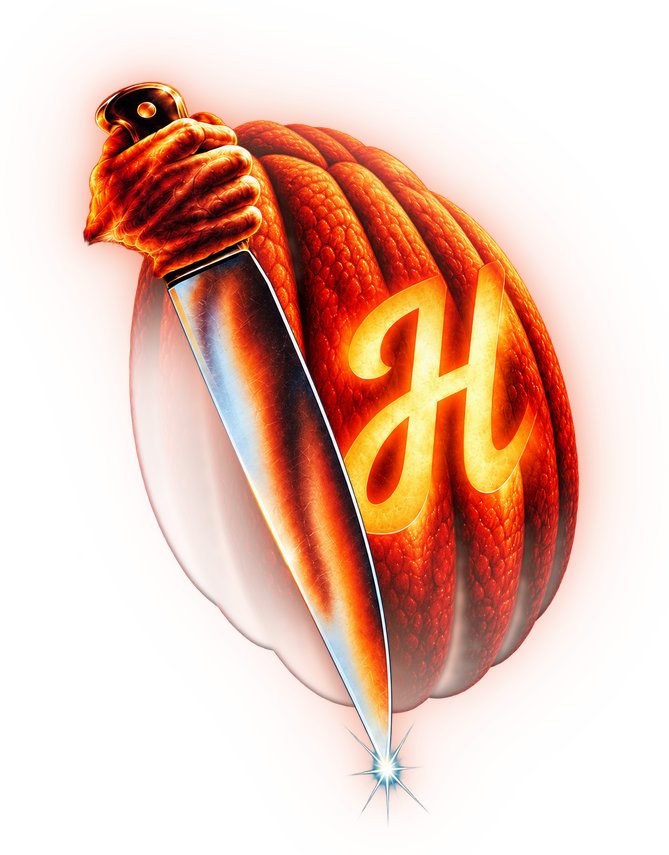
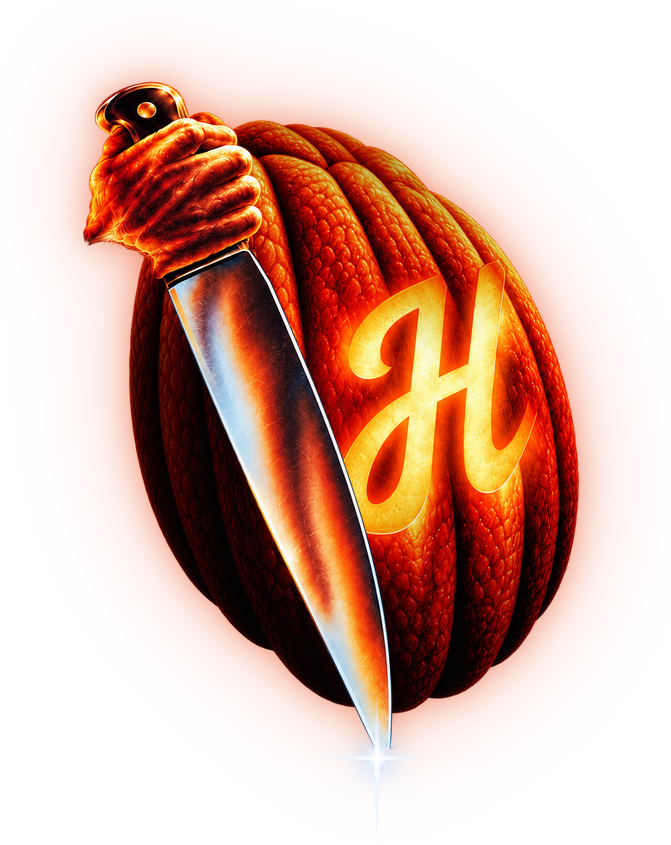
Pumpkin/knife PNGs: solid pumpkin (no see-through shadow), crisp tip star
- glow version: the poster shading is now solid darkening, never transparent,
  so the left side no longer turns into a ghost on coloured backgrounds
- both versions get a newly drawn four-point star at the knife tip instead of
  the pack's baked one (clean version had none)

Claude-Session: https://claude.ai/code/session_01U2sS6CLVvwZt3yr91v4FPT

Changed region(s): [[0.1196, 0.0923, 0.867, 0.9538]]

diff --git a/halloween-at-henderson/motion/prep_export.py b/halloween-at-henderson/motion/prep_export.py
@@ -1,11 +1,10 @@
 """Export the pumpkin + knife artwork as standalone transparent PNGs -> ../exports/.
 
-  pumpkin-knife-clean.png  the full, evenly lit pumpkin + knife and hand; no
-                           glow, no tip star; sits on any background
-  pumpkin-knife-glow.png   the poster look for dark backgrounds: the pumpkin's
-                           left side falls away into shadow (as transparency,
-                           so it matches the poster on black), ember halo and
-                           knife-tip star
+  pumpkin-knife-clean.png  the full, evenly lit pumpkin + knife and hand with a
+                           crisp knife-tip star; no glow; sits on any background
+  pumpkin-knife-glow.png   the poster look: the pumpkin's left side shaded
+                           darker (solid, never see-through), ember halo and
+                           the same star; best on dark backgrounds
 
 Built from the motion layers (run after prep_layers.py), at the layer pack's
 native resolution, cropped tight with a margin.
@@ -48,16 +47,14 @@ def padded(img, p):
     return np.pad(img, ((p, p), (p, p), (0, 0)))
 
 
-# The motion pumpkin has the poster's shading baked in as darkness. For the glow
-# export, turn that shading into transparency instead (original colours, alpha
-# scaled by the shade factor): identical on black, and it fades into any dark
-# colour rather than leaving a black smudge. The clean export skips the shading.
+# The poster's shading, recovered from the motion pumpkin (which has it baked in)
+# as a 0..1 factor. The glow export uses a softened version of it as solid
+# darkening; the clean export skips it.
 shaded = rgba(LAYERS / "pumpkin.png")
 orig = rgba(PACK / "05_Pumpkin_with_H.png")[ART[1]:ART[3], ART[0]:ART[2]]
 lum = lambda x: x[..., :3] @ np.array([0.3, 0.59, 0.11], np.float32)
 shade = np.clip(lum(shaded) / np.maximum(lum(orig), 1e-3), 0, 1)
 shade = cv2.GaussianBlur(np.where(orig[..., 3] > 0.5, shade, 1), (0, 0), 3)   # smooth out per-pixel noise
-pumpkin_fade = np.dstack([orig[..., :3], orig[..., 3] * shade])
 knife_clean = rgba(LAYERS / "knife.png")                                           # tip star removed
 # faint star rays survive beside the tip (the videos hide them under the animated
 # sparkle). For the logo, fit the blade's two edges just above the tip and keep
@@ -76,17 +73,60 @@ inside = np.minimum(xx - (fl[0] * yy + fl[1]), (fr[0] * yy + fr[1]) - xx) + 1.5 
 wedge = np.clip(inside / 1.5, 0, 1) * (yy <= tip[1] + 2)
 zone = yy > tip[1] - 150
 knife_clean[..., 3] = np.where(zone, np.minimum(ka, wedge), ka)
+# the very point sits under the star's white core; clear it so no chip pokes out
+knife_clean[..., 3] *= 1 - ((yy > tip[1] - 12) & (np.abs(xx - tip[0]) < 45))
 
-knife_star = rgba(PACK / "04_Knife_and_Hand.png")[ART[1]:ART[3], ART[0]:ART[2]]   # with the baked star
+def star(size, ss=3):
+    """A crisp four-point sparkle like the poster's knife-tip star, RGBA in 0..1.
+    Long vertical rays, shorter horizontal ones, small diagonals, white-hot core
+    and a faint cool bloom; anti-aliased by supersampling."""
+    n = size * ss
+    c = (n - 1) / 2
+    yy, xx = (np.mgrid[0:n, 0:n].astype(np.float32) - c) / ss
+    a = np.zeros((n, n), np.float32)
+    for ang, length, width in [(90, 0.48, 3.4), (270, 0.42, 3.4), (0, 0.36, 2.8), (180, 0.36, 2.8),
+                               (45, 0.16, 1.8), (135, 0.16, 1.8), (225, 0.16, 1.8), (315, 0.16, 1.8)]:
+        L = length * size
+        t = np.deg2rad(ang)
+        u = xx * np.cos(t) + yy * np.sin(t)            # along the ray
+        v = -xx * np.sin(t) + yy * np.cos(t)           # across it
+        k = np.clip(1 - u / L, 0, 1) * (u >= 0)
+        half = width * k + 0.35                       # tapers to a point
+        a = np.maximum(a, np.clip(half - np.abs(v), 0, 1) * k ** 0.9)
+    r = np.hypot(xx, yy)
+    core = np.exp(-(r / (0.05 * size)) ** 2)
+    bloom = 0.5 * np.exp(-(r / (0.13 * size)) ** 2)
+    alpha = np.clip(np.maximum(a, core) + bloom * (1 - a), 0, 1)
+    # white core and rays, cooling to a pale blue in the bloom
+    cool = np.clip(1 - np.maximum(a, core), 0, 1)[..., None]
+    rgb = (1 - cool) * np.array([1.0, 1.0, 1.0]) + cool * np.array([0.78, 0.88, 1.0])
+    img = np.dstack([rgb, alpha]).astype(np.float32)
+    return cv2.resize(img, (size, size), interpolation=cv2.INTER_AREA)
 
-# 1 · clean
-crop_save(over(knife_clean, orig), "pumpkin-knife-clean.png", pad=4)
 
-# 2 · glow: ember halo built from the art's silhouette, under the art
-P = 140   # room for the halo
-art = padded(over(knife_star, pumpkin_fade), P)
+def add_star(img, x, y, size):
+    st = star(size)
+    out = img.copy()
+    x0, y0 = int(round(x - size / 2)), int(round(y - size / 2))
+    out[y0:y0 + size, x0:x0 + size] = over(st, out[y0:y0 + size, x0:x0 + size])
+    return out
+
+
+P = 140   # canvas margin: room for the star and the halo
+SIZE = 190
+tx, ty = tip[0] + P, tip[1] + P - 2
+
+# 1 · clean: the full, evenly lit pumpkin, knife and hand, and a crisp tip star
+clean = add_star(padded(over(knife_clean, orig), P), tx, ty, SIZE)
+crop_save(clean, "pumpkin-knife-clean.png", pad=4)
+
+# 2 · glow: the poster's shading as solid darkening (never see-through, never
+# fully black), an ember halo from the silhouette, and the same star
+soft = 0.3 + 0.7 * shade
+pumpkin_shaded = np.dstack([orig[..., :3] * soft[..., None], orig[..., 3]])
+art = padded(over(knife_clean, pumpkin_shaded), P)
 sil = art[..., 3]
 halo = 0.55 * cv2.GaussianBlur(sil, (0, 0), 16) + 0.45 * cv2.GaussianBlur(sil, (0, 0), 48)
 halo = np.clip(halo * 0.75, 0, 1)
 glow = np.dstack([np.broadcast_to(np.array([0.92, 0.30, 0.10], np.float32), sil.shape + (3,)), halo])
-crop_save(over(art, glow), "pumpkin-knife-glow.png", pad=0)
+crop_save(add_star(over(art, glow), tx, ty, SIZE), "pumpkin-knife-glow.png", pad=0)

diff --git a/halloween-at-henderson/motion/README.md b/halloween-at-henderson/motion/README.md
@@ -10,7 +10,7 @@ Every frame is code: HTML canvas, rendered headless in Chromium via Playwright a
 | `engine.js` | Timing and easing, candle flicker, film grain and vignette, knife-tip glint, ember type, knife-slash wipe |
 | `cards.js` | The 18 story designs (the countdown renders once per number; list in `../STORIES_PLAN.md`) |
 | `tv.js` + `tv.html` | The 70s venue TV loop (1920×1080, silent, seamless): nine scenes on the left, the ticket QR, date and wordmark fixed on the right |
-| `prep_export.py` | Exports the pumpkin + knife art as transparent PNGs to `../exports/` (clean for any background; poster glow for dark backgrounds) |
+| `prep_export.py` | Exports the pumpkin + knife art as transparent PNGs to `../exports/`, both with a crisp drawn knife-tip star: clean (evenly lit, any background) and glow (poster shading as solid darkening + ember halo) |
 | `prep_qr.py` | Turns `../reference/tv-qr.png` into a module grid (`layers/qr.json`) so the TV draws the QR pixel-sharp, and checks it still decodes |
 | `content.json` | **All the copy.** Edit here, then re-render |
 | `audio.py` | Synthesized SFX per card (no music), −16 LUFS |
